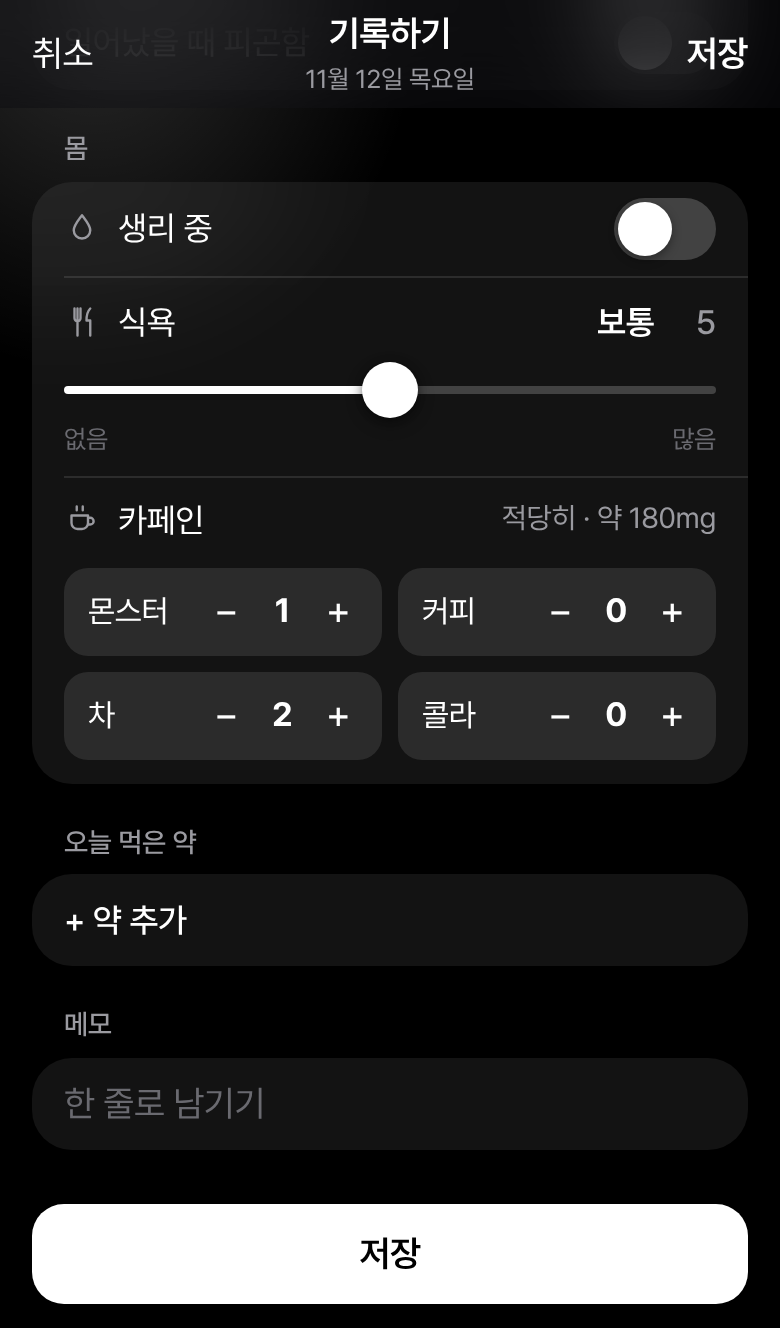
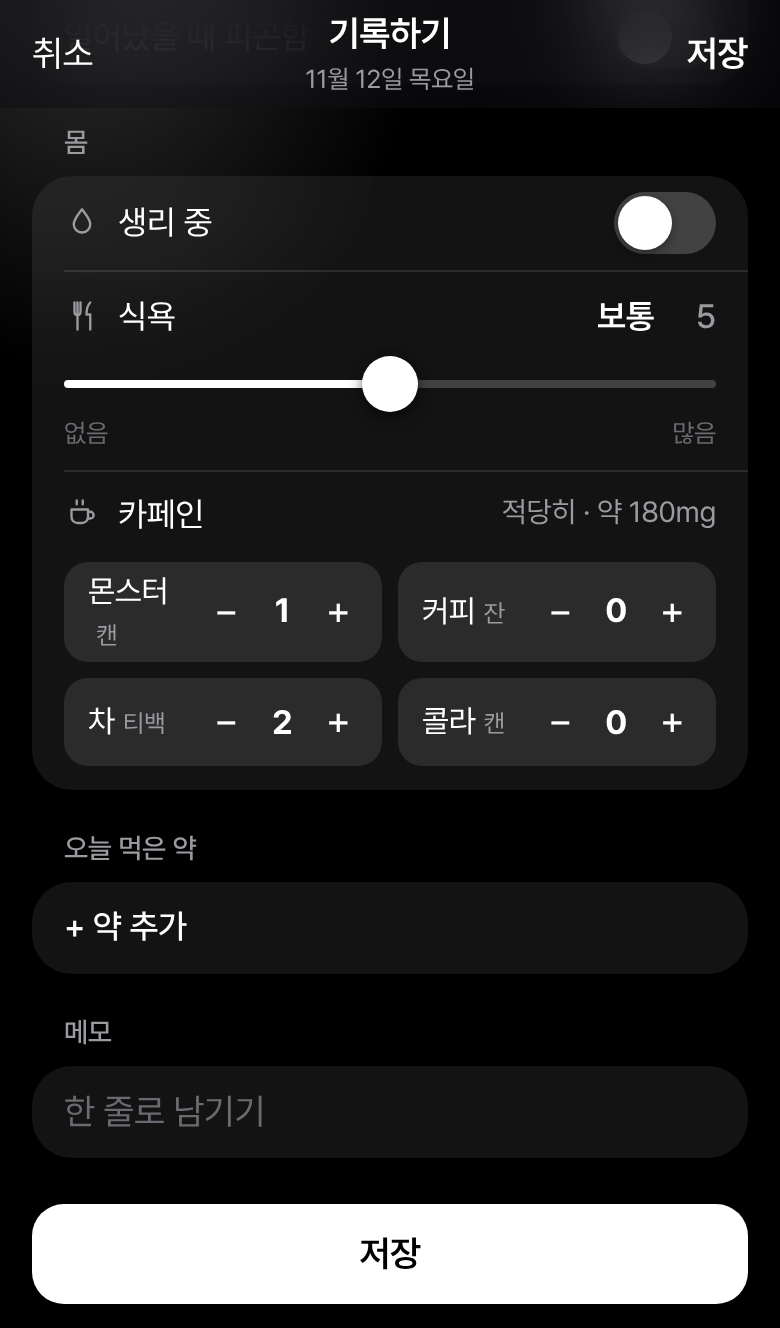
Tide: count tea by tea bags and show units on drink counters
Claude-Session: https://claude.ai/code/session_01Du4KAy7crrN67i73oW7iBF

diff --git a/mood/app.js b/mood/app.js
@@ -49,7 +49,7 @@
     '복사한 글을 Claude나 ChatGPT 같은 AI 앱에 붙여 넣으면 기록 전체를 읽고 패턴을 정리해 줘요. 붙여 넣는 순간 그 기록은 해당 AI 서비스로 전송돼요.': 'Paste the copied text into an AI app such as Claude or ChatGPT and it can read the whole log and summarise patterns. Once pasted, that log is sent to that AI service.',
     '위 문장들은 내 기록을 계산한 관찰이에요. 원인이나 진단을 뜻하지 않아요.': 'These sentences are observations calculated from your log. They do not indicate a cause or a diagnosis.',
     '복사했어요. AI 앱에 붙여 넣으세요': 'Copied. Paste it into an AI app',
-    '몬스터': 'Monster', '커피': 'Coffee', '차': 'Tea', '콜라': 'Cola', '약 {0}mg': '~{0} mg',
+    '몬스터': 'Monster', '커피': 'Coffee', '차': 'Tea', '콜라': 'Cola', '캔': 'can', '잔': 'cup', '티백': 'bag', '약 {0}mg': '~{0} mg',
     '취소': 'Cancel', '완료': 'Done', '설정': 'Settings', '증상': 'Symptoms', '몸': 'Body',
     '수면 시간': 'Time asleep', '일어났을 때 피곤함': 'Tired on waking', '일어났을 때': 'On waking', '피곤': 'Tired',
     '높음': 'High',
@@ -216,7 +216,8 @@
   // 잠에 영향을 주는 약 (안정제·수면제). 전날 이 약을 체크했으면 그날 밤 잠은 '약 먹고 잔 밤'으로 본다.
   const SEDATIVES = ['알프람', '자낙스', '아티반', '리보트릴', '바리움', '스틸녹스', '서카딘'];
   // 카페인은 마신 것을 개수로 적는다. mg는 대략적인 값 (제품·크기에 따라 다름).
-  const DRINKS = [['monster', T('몬스터'), 100], ['coffee', T('커피'), 150], ['tea', T('차'), 40], ['cola', T('콜라'), 35]];
+  // 차는 물 양이 아니라 티백(찻잎) 개수로 센다. 카페인은 우린 찻잎 양에서 나온다.
+  const DRINKS = [['monster', T('몬스터'), 100, T('캔')], ['coffee', T('커피'), 150, T('잔')], ['tea', T('차'), 40, T('티백')], ['cola', T('콜라'), 35, T('캔')]];
   const cafMg = (dr) => DRINKS.reduce((sum, [k, , mg]) => sum + ((dr && dr[k]) || 0) * mg, 0);
   const cafScore = (dr) => Math.min(10, Math.round(cafMg(dr) / 40));   // 400mg 이상이면 10
   const drinkText = (dr) => DRINKS.filter(([k]) => dr && dr[k]).map(([k, name]) => `${name} ${dr[k]}`).join(' · ');
@@ -772,7 +773,7 @@ ${lines.join('\n') || '(기록 없음)'}`;
   const SLIDERS = ['mood', 'energy', 'conf', 'appetite'];
   const cafHead = (dr) => (cafMg(dr) ? `${nameOf('caffeine', cafScore(dr))} · ${F('약 {0}mg', cafMg(dr))}` : nameOf('caffeine', 0));
   const drinksHtml = (d) => `<div class="li col"><div class="slh"><span class="lk">${IC.coffee}${T('카페인')}</span><span class="nm" id="v-caf">${cafHead(d.drinks)}</span></div>
-    <div class="steps">${DRINKS.map(([k, name]) => `<div class="step"><span>${name}</span>
+    <div class="steps">${DRINKS.map(([k, name, , unit]) => `<div class="step"><span>${name}<small>${unit}</small></span>
       <button type="button" data-drink="${k}" data-d="-1" aria-label="${name} −">−</button><b id="c-${k}">${d.drinks[k] || 0}</b>
       <button type="button" data-drink="${k}" data-d="1" aria-label="${name} +">+</button></div>`).join('')}</div></div>`;
   const slider = (id, icon, label, v, lo, hi) => `<div class="li sl">

diff --git a/mood/app.css b/mood/app.css
@@ -259,3 +259,4 @@ ol.steps li { margin: 3px 0; }
 .step button { width: 36px; height: 36px; border-radius: 9px; font-size: 20px; text-align: center; color: var(--text); }
 .step button:active { background: var(--fill); }
 .step b { min-width: 20px; text-align: center; font-variant-numeric: tabular-nums; font-size: calc(15px * var(--fs, 1.12)); }
+.step span small { color: var(--muted); font-size: .8em; margin-left: 4px; }

diff --git a/mood/sw.js b/mood/sw.js
@@ -1,6 +1,6 @@
 // 오프라인에서도 열리도록 앱 파일을 저장해 둔다.
 // 인터넷이 될 때는 항상 최신 파일을 먼저 받아오고, 안 될 때만 저장본을 쓴다.
-const CACHE = 'tide-v19';
+const CACHE = 'tide-v20';
 const FILES = ['./', 'index.html', 'app.css', 'app.js', 'manifest.webmanifest',
   'icons/icon-180.png', 'icons/icon-192.png', 'icons/icon-512.png'];
 
